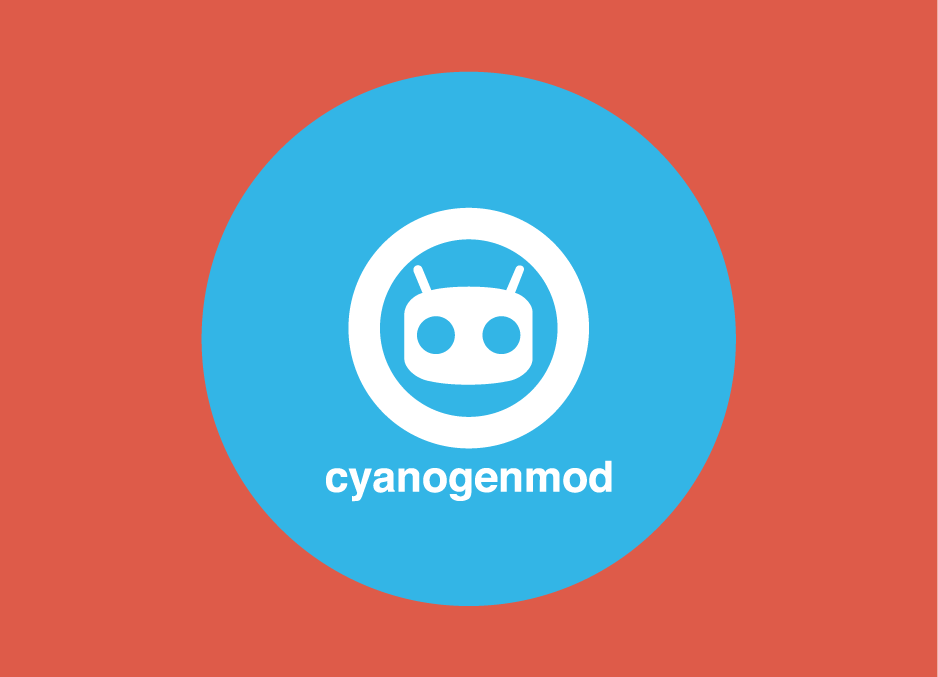
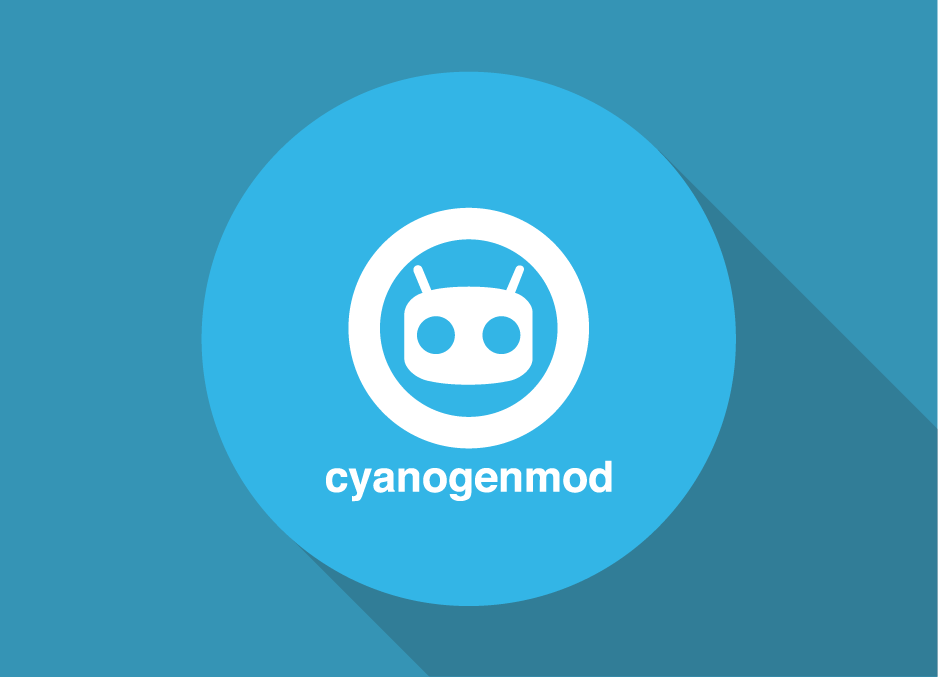
Update graphics again, add credits to Wilson Lam
3D all teh things!

diff --git a/_includes/footer.html b/_includes/footer.html
@@ -22,6 +22,7 @@
                     <div class="col-lg-12">
                         Copyright &copy; {{ site.footer.copyright }} 20{{ site.time | date: '%y' }}.
 						Created using <a class="footer-links" href="http://startbootstrap.com/" target="_blank">Bootstrap</a> with Freelancer theme.
+						Graphics by <a href="http://www.wilsonlam.ca/" target="_blank">Wilson Lam.</a>
                     </div>
                 </div>
             </div>

diff --git a/_includes/css/main.css b/_includes/css/main.css
@@ -211,6 +211,7 @@ section h2 {
     display: block;
     position: relative;
     margin: 0 auto;
+    box-shadow: 0px 3px 5px #{{ site.color.secondary-dark }};
     max-width: 400px;
 }
 
